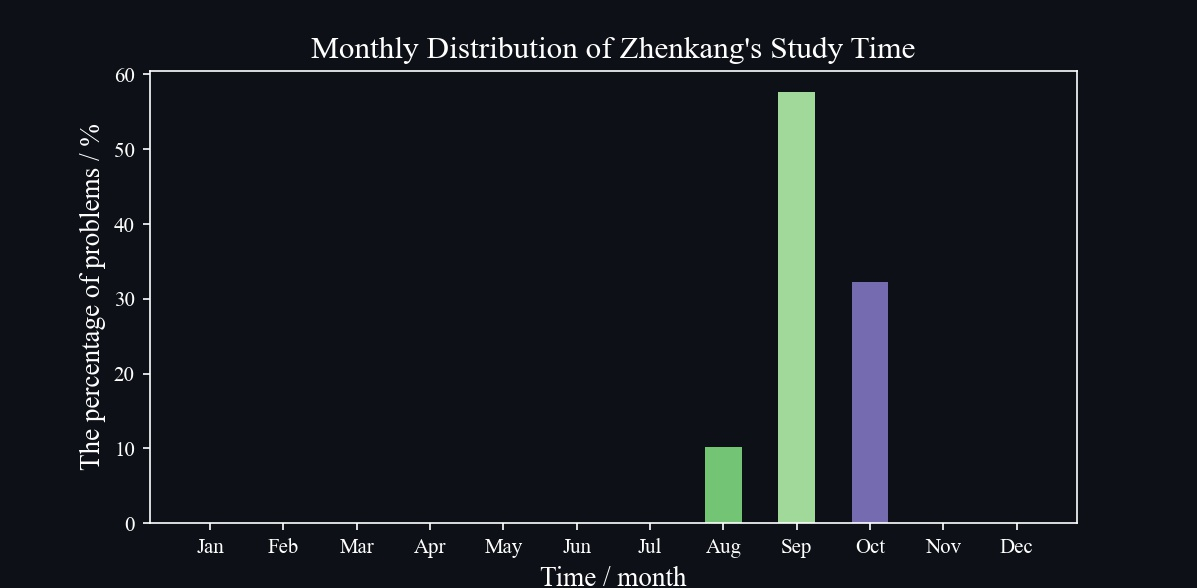
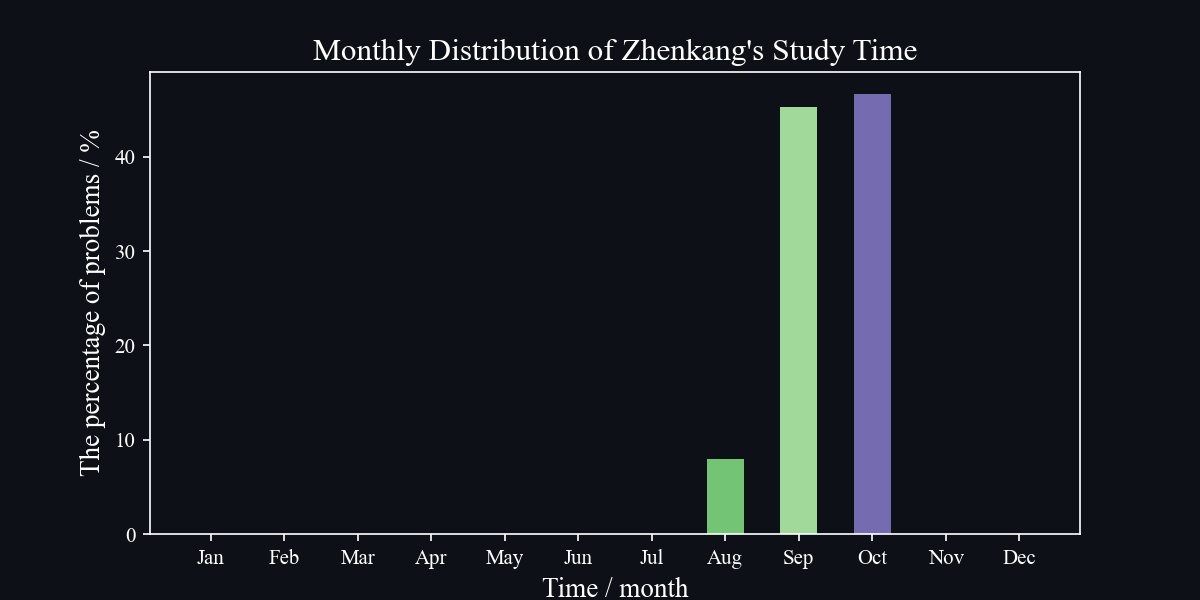
new figure

diff --git a/myFunction.py b/myFunction.py
@@ -93,13 +93,20 @@ class myFunction:
         yearsDict = {}
         yearsDict[2020] = [0]*12
         yearsDict[2021] = [0] * 12
-
+        
         for name in items:
             if name[:9] == 'Solution_':
                 # 获取文件时间
                 unixTime = os.path.getmtime(fileFolder+name)
                 localTime = time.localtime(unixTime)
-                hourslist[localTime.tm_hour] +=1
+                # print(localTime)
+                # 直接tm_hour 这样统计出来的是0-60分，而画图却是以整点画图
+                # 所以应该是+-30统计
+                # hourslist[localTime.tm_hour] +=1
+                if localTime.tm_min >= 30:
+                    hourslist[(localTime.tm_hour + 1) %24] +=1
+                else:
+                    hourslist[localTime.tm_hour] +=1
                 yearsDict[localTime.tm_year][localTime.tm_mon-1] += 1
 
         return hourslist,yearsDict
@@ -109,9 +116,10 @@ if __name__ == '__main__':
     myfunc = myFunction()
     # Statistics
     # hourslist, yearsDict = myfunc.statistics('./code/')
-    hourslist = [4, 0, 0, 0, 0, 0, 0, 0, 0, 3, 22, 10, 5, 8, 10, 11, 7, 16, 1, 13, 16, 4, 2, 4]
-    yearsDict = {2020: [0, 0, 0, 0, 0, 0, 0, 0, 0, 0, 0, 18], 2021: [0, 0, 0, 0, 0, 0, 0, 12, 68, 38, 0, 0]}
-    
+    # hourslist = [4, 0, 0, 0, 0, 0, 0, 0, 0, 3, 22, 10, 5, 8, 10, 11, 7, 16, 1, 13, 16, 4, 2, 4]
+    # yearsDict = {2020: [0, 0, 0, 0, 0, 0, 0, 0, 0, 0, 0, 18], 2021: [0, 0, 0, 0, 0, 0, 0, 12, 68, 38, 0, 0]}
+    hourslist = [5, 0, 0, 0, 0, 0, 0, 0, 0, 0, 24, 20, 6, 6, 10, 12, 10, 19, 4, 10, 15, 11, 7, 9]
+    yearsDict = {2020: [0, 0, 0, 0, 0, 0, 0, 0, 0, 0, 0, 18], 2021: [0, 0, 0, 0, 0, 0, 0, 12, 68, 70, 0, 0]}
     totalProblems = sum(hourslist)
     
     plt.style.use('dark_background')
